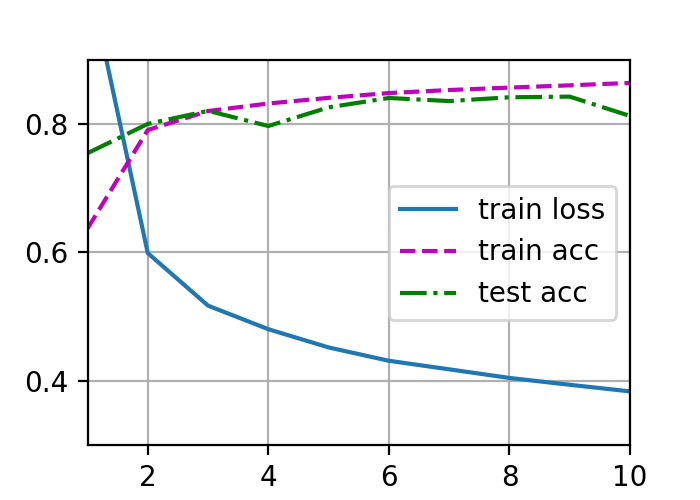
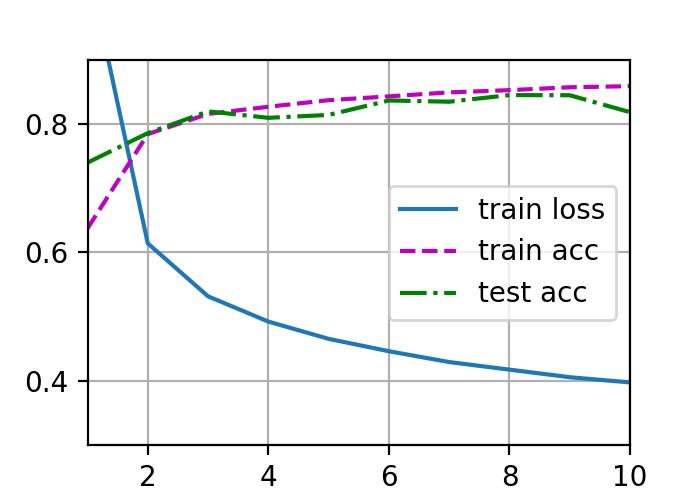
weight decay

Changed region(s): [[0.12, 0.12, 0.9, 0.81]]

diff --git a/utils/utils.py b/utils/utils.py
@@ -29,21 +29,19 @@ def init_weights(m):
 
 def accuracy(y_hat, y):
     if len(y_hat.shape) > 1 and y_hat.shape[1] > 1: y_hat = y_hat.argmax(axis=1)
-    cmp = y_hat.type(y.dtype) == y # 正确的数量
-    return float(cmp.type(y.dtype).sum())
+    cmp = y_hat.type(y.dtype) == y # casting
+    return float(cmp.type(y.dtype).sum()) # 要使用浮点数来做除法
 
 def evaluate_accuracy(net, data_iter):
-    """计算在指定数据集上模型的精度"""
     if isinstance(net, torch.nn.Module):
         net.eval()  # 将模型设置为评估模式
     metric = Accumulator(2)  # 正确预测数、预测总数
     with torch.no_grad():
         for X, y in data_iter:
-            metric.add(accuracy(net(X), y), y.numel())
+            metric.add(accuracy(net(X), y), y.numel()) # total number of elements
     return metric[0] / metric[1]
 
 def train_epoch_ch3(net, train_iter, loss, updater):
-    """训练模型一个迭代周期（定义见第3章）"""
     # 将模型设置为训练模式
     if isinstance(net, torch.nn.Module): net.train()
     # 训练损失总和、训练准确度总和、样本数

diff --git a/perceptron.py b/perceptron.py
@@ -5,16 +5,18 @@ from utils.utils import load_data_fashion_mnist, train_ch3, init_weights
 
 batch_size = 256
 lr = 0.1
+dr = 0.1 # 0.5, 0.1, 0.9
+wc = 0.001
 num_epochs = 10
 
 # data
 train_iter, test_iter = load_data_fashion_mnist(batch_size)
 
 # model
-net = nn.Sequential(nn.Flatten(), nn.Linear(784, 256), nn.ReLU(), nn.Linear(256, 10))
+net = nn.Sequential(nn.Flatten(), nn.Linear(784, 256), nn.ReLU(), nn.Dropout(dr), nn.Linear(256, 10))
 net.apply(init_weights)
 loss = nn.CrossEntropyLoss(reduction='none')
-trainer = torch.optim.SGD(net.parameters(), lr=lr)
+trainer = torch.optim.SGD(net.parameters(), weight_decay=wc, lr=lr)
 
 # train
 train_ch3(net, train_iter, test_iter, loss, num_epochs, trainer)

diff --git a/notes/note.md b/notes/note.md
@@ -1,14 +1,18 @@
+# 牛顿法
+
 能用牛顿法吗（二阶导）？不一定能求得到，就算可以，也要一个 nxn 的空间和计算，并不会很容易（一般只能做近似）
 
-SoftMax 和 Cross Entropy Loss 的关系
+# SoftMax 和 Cross Entropy Loss 的关系
 
 - softmax 是一种将数值转化成概率的方法，同时所有的效率和为1：$\hat{y_i} = \frac{e^{o_i}}{\sum_k e^{o_k}}$
 - cross entropy 是用来很亮两个概率的区别大小：$l(y, \hat{y}) = -\displaystyle \sum_i y_i \log \hat{y_i} = -\log \hat{y_y}$ 因为只有真实类别的这一项的 $y_i$ 不为0（结果就是我们不关心非真实类别的值的大小，只需要真实类别给出的值够大）
 - softmax 和 cross entropy 的关系是，cross entropy loss 的梯度是 $\frac{\partial l(y, \hat{y})}{\partial o_i} = \text{softmax}(o)_i - y_i$。也就是说损失函数对于原始值求导会得到 softmax 过后的概率 - 真实值（所以能很好使用这个损失梯度来更新参数）
 
-似然函数 Likelihood function：可以理解成损失梯度越小的地方，似然函数的值就越大
+# 似然函数 Likelihood function
 
-Huber's Robust Loss
+可以理解成损失梯度越小的地方，似然函数的值就越大
+
+# Huber's Robust Loss
 
 $$
 l(y, y')
@@ -21,3 +25,32 @@ l(y, y')
 $$
 
 优点在于处处可导，而且接近最优解/likelihood最大的地方的时候导数绝对值缓慢平滑变小
+
+# 权重衰退
+
+$$\frac{\partial (l(w, b) + \frac{\lambda ||w||^2}{2})}{\partial w} = \frac{\partial l(w, b)}{\partial w} + \lambda w$$
+
+$$w_{t + 1} = (1 - \eta \lambda) w_t - \frac{\eta \partial l(w_t, b_t)}{\partial w_t}$$
+
+这里的 $\eta \lambda \in (0, 1)$，也就是每次学习的时候都先对权重进行缩小，所以我们叫权重衰退
+
+可以理解成使用 L2 norm 来限制模型的容量，可能会得到泛化性能更好的模型（不允许模型去拟合 outlier）
+
+这个的效果很有限
+
+# dropout
+
+无偏差地加入噪音
+
+$$x_i' = \left\{
+\begin{array}{c c}
+0 & p \\
+\frac{x_i}{1 - p} & 1-p
+\end{array}
+\right.$$
+
+原本以为是ensemble多个小模型，但实际上起到的是正则项 regularization 的效果
+
+主要用在多层感知机的隐藏层输出上，不在CNN中使用
+
+dropout 会让收敛变慢，但是学习率也不用对应调高（多训练一会儿就好）
